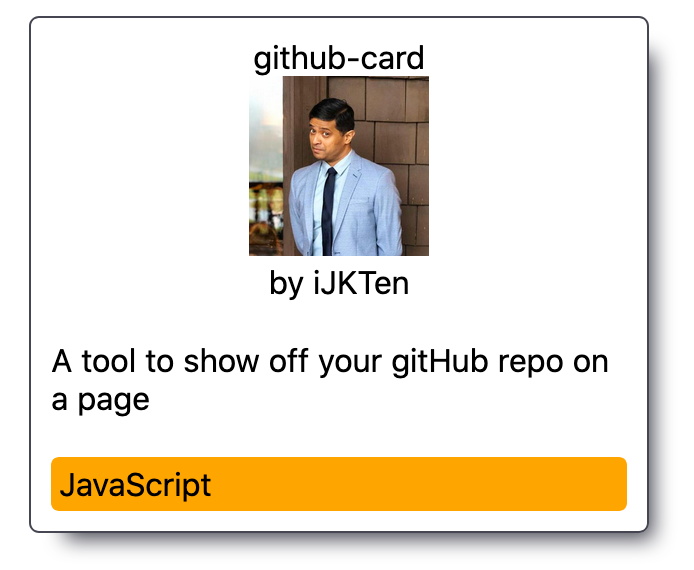
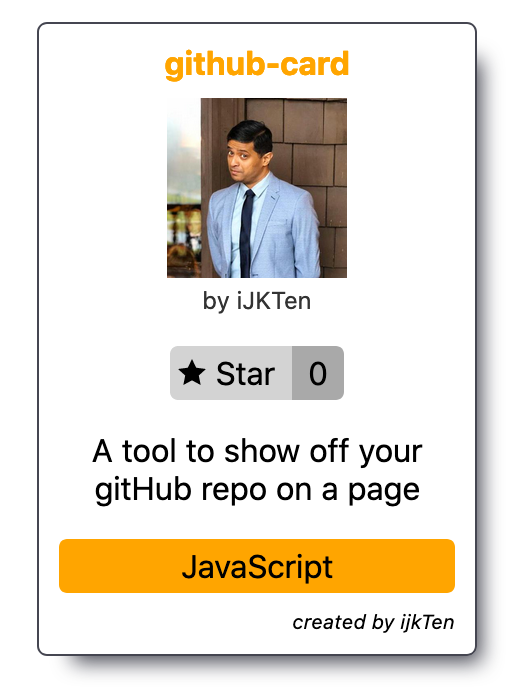
updated styles, added links and updated screenshot

Changed region(s): [[0.0302, 0.0298, 0.966, 0.9842]]

diff --git a/src/app.js b/src/app.js
@@ -13,9 +13,14 @@
   };
 
   const displayError = (element, statusText) => {
-    const elem = buildElemWithValue('div', `GitHub API called failed with message ${statusText}`);
+    let msg = 'GitHub API called failed';
+    if (statusText.length === 0) {
+      msg = `GitHub API called failed with message ${statusText}`;
+    }
+    const elem = buildElemWithValue('div', msg);
+    elem.classList.add('repo');
     element.appendChild(elem);
-  }
+  };
 
   const getGitHubRepo = (repoName, onResult, onError) => {
     const xhr = new XMLHttpRequest();
@@ -28,8 +33,8 @@
     };
 
     xhr.onerror = () => {
-      onError(xhr.status, xhr.statusText)
-    }
+      onError(xhr.status, xhr.statusText);
+    };
   };
 
   const displayRepo = (element, repo) => {
@@ -39,7 +44,12 @@
     const nameElem = buildElemWithValue('div', repo.name);
     const descriptionElem = buildElemWithValue('div', repo.description);
     const languagesElem = buildElemWithValue('div', repo.language);
+    const createdByElem = buildElemWithValue('div', 'created by ijkTen');
+    const anchorToRepoElem = buildAnchorToRepo(repo);
+    const anchorToRepoStarsElem = buildAnchorToRepo(repo);
+    const anchorToAuth = buildAnchorToAuthor();
 
+    createdByElem.classList.add('createdby');
     languagesElem.classList.add('lang');
     nameElem.classList.add('name');
 
@@ -51,13 +61,20 @@
 
     const starsElem = buildStars(repo);
 
-    repoDiv.appendChild(nameElem);
+    anchorToRepoElem.appendChild(nameElem);
+    anchorToRepoStarsElem.appendChild(starsElem);
+    anchorToRepoStarsElem.classList.add('starsLink');
+    anchorToAuth.classList.add('createdByLink');
+    anchorToAuth.appendChild(createdByElem);
+
+    repoDiv.appendChild(anchorToRepoElem);
     ownerDiv.appendChild(avatarImg);
     ownerDiv.appendChild(owner);
     repoDiv.appendChild(ownerDiv);
-    repoDiv.appendChild(starsElem);
+    repoDiv.appendChild(anchorToRepoStarsElem);
     repoDiv.appendChild(detailsDiv);
     repoDiv.appendChild(languagesElem);
+    repoDiv.appendChild(anchorToAuth);
 
     repoDiv.classList.add('repo');
     element.appendChild(repoDiv);
@@ -102,7 +119,7 @@
     svg.setAttribute('viewBox', '0 -2 14 16');
     svg.setAttribute('aria-hidden', true);
 
-    // path.setAttribute('fill-rule', 'evenodd');
+    path.setAttribute('fill-rule', 'evenodd');
     path.setAttribute('d', 'M14 6l-4.9-.64L7 1 4.9 5.36 0 6l3.6 3.26L2.67 14 7 11.67 11.33 14l-.93-4.74L14 6z');
 
     div.classList.add('stars');
@@ -110,11 +127,23 @@
     svg.appendChild(path);
     svgSpan.appendChild(svg);
     svgSpan.appendChild(starElem);
-    // div.appendChild(svg);
-    // div.appendChild(starElem);
     div.appendChild(svgSpan);
     div.appendChild(starCountElem);
     return div;
+  };
+
+  const buildAnchorToRepo = (repo) => {
+    const anchorElem = document.createElement('a');
+    anchorElem.setAttribute('href', repo.html_url);
+    anchorElem.setAttribute('target', '_blank');
+    return anchorElem;
+  };
+
+  const buildAnchorToAuthor = () => {
+    const anchorElem = document.createElement('a');
+    anchorElem.setAttribute('href', 'https://github.com/ijkten/github-card');
+    anchorElem.setAttribute('target', '_blank');
+    return anchorElem;
   };
 
   init();

diff --git a/src/app.css b/src/app.css
@@ -26,7 +26,7 @@
 }
 
 .repo .details {
-  padding: 20px 0px;
+  padding: 16px 0px;
 }
 
 .repo img {
@@ -35,7 +35,13 @@
 }
 
 .repo .stars {
-  padding: 8px 0px 0px 0px;
+  padding: 16px 0px 0px 0px;
+  line-height: 26px;
+}
+
+.repo .starsLink,
+.repo .createdByLink {
+  color: #000;
 }
 
 .repo .lang {
@@ -57,4 +63,15 @@
   border-top-right-radius: 4px;
   border-bottom-right-radius: 4px;
   padding: 4px 8px;
+}
+
+.repo .createdby {
+  font-size: 10px;
+  padding-top: 8px;
+  text-align: right;
+  font-style: italic;
+}
+
+.repo a {
+  text-decoration: none;
 }
